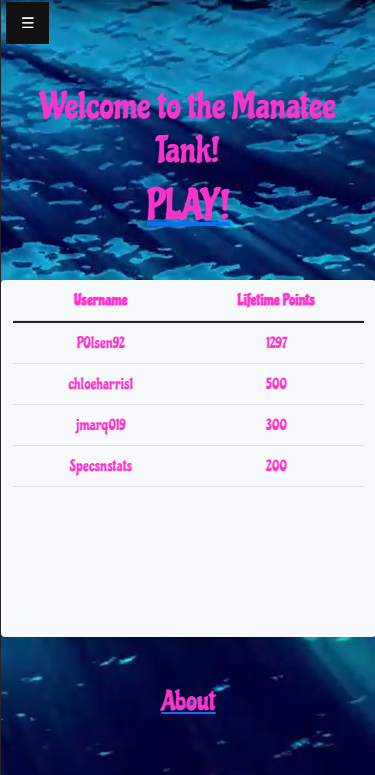
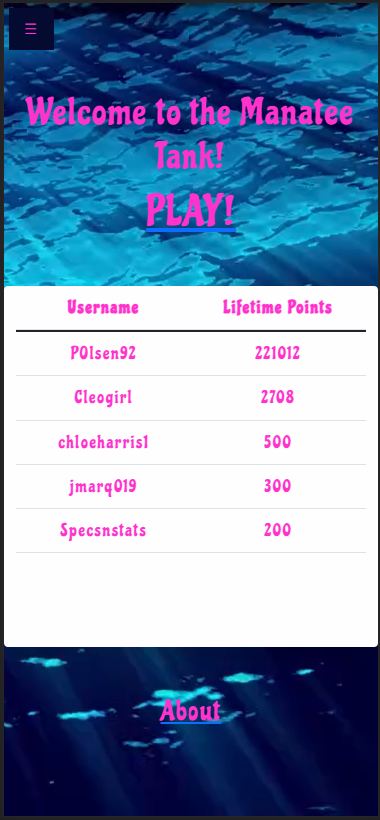
updated screenshots to readme, added letter spacing for better readability

diff --git a/public/css/style.css b/public/css/style.css
@@ -1,14 +1,14 @@
+/* MAIN AND UNIVERSAL */
+
 * {
     font-family: 'Chicle', cursive;
     color: #ff33cc;
+    letter-spacing: 1.5px;
 }
+
 
 body {
     background-color: transparent;
-}
-
-.manatee-button {
-    /* border-color: #FFB6C1; */
 }
 
 #background-video {
@@ -25,8 +25,15 @@ img:active {
     box-shadow: 2px 2px 10px rgba(0, 0, 0, 0.3);
 }
 
+/* ~~~~~~~~~~~~~~~~~~~~~~~~~~~~~~~~~~~~~~~~~~~~~~~~~~~~~~~~~~~~~~~~~~~~~~~~~~~~~~~~~~~ */
+/* DASHBOARD */
+#poh-text {
+    background-color: rgba(73, 73, 73, 0.514);
+    font-size: 20px;
+}
 
-/* The sidebar menu */
+/* ~~~~~~~~~~~~~~~~~~~~~~~~~~~~~~~~~~~~~~~~~~~~~~~~~~~~~~~~~~~~~~~~~~~~~~~~~~~~~~~~~~ */
+/* NAVBAR */
 
 .sidebar {
     height: 100%;
@@ -107,8 +114,8 @@ img:active {
     padding: 20px;
 }
 
-
-/* Settings CSS */
+/* ~~~~~~~~~~~~~~~~~~~~~~~~~~~~~~~~~~~~~~~~~~~~~~~~~~~~~~~~~~~~~~~~~~~~~ */
+/* SETTINGS */
 
 #settings h1 {
     /* margin-top: 15px; */
@@ -135,6 +142,13 @@ img:active {
     font-size: 25px;
 }
 
+/* ~~~~~~~~~~~~~~~~~~~~~~~~~~~~~~~~~~~~~~~~~~~~~~~~~~~~~~~~~~~~~~~~~~~~~~~~~~~~~~~~~~~~~ */
+/* LEADERBOARD */
+
+#ldrbrd {
+    background-color: #fefefe
+}
+
 .table-fixed tbody {
     height: 300px;
     overflow-y: scroll;
@@ -154,11 +168,15 @@ img:active {
 .table-fixed thead>tr>th {
     float: left;
     position: relative;
+    font-size: 18px;
 }
 
 #play {
     color: #ff33cc;
 }
+
+/* ~~~~~~~~~~~~~~~~~~~~~~~~~~~~~~~~~~~~~~~~~~~~~~~~~~~~~~~~~~~~~~~~~~~~~~~~~~~~~~~~~~~~~~~~~~~~~~~~~ */
+/* LOGIN */
 
 #signup-text {
     font-size: 100px;
@@ -169,9 +187,8 @@ img:active {
 }
 
 
+/* ~~~~~~~~~~~~~~~~~~~~~~~~~~~~~~~~~~~~~~~~~~~~~~~~~~~~~~~~~~~~~~~~~~~~~~~~~~~~~~~~~~~~~~~~~ */
 /* MODAL */
-
-
 /* The Modal (background) */
 
 .modal-stuff {
@@ -182,7 +199,7 @@ img:active {
     z-index: 1;
     /* Sit on top */
     left: 0;
-    top: 0;
+    top: -50px;
     width: 100%;
     /* Full width */
     height: 100%;
@@ -191,7 +208,7 @@ img:active {
     /* Enable scroll if needed */
     background-color: rgb(0, 0, 0);
     /* Fallback color */
-    background-color: rgba(0, 0, 0, 0.4);
+    background-color: rgba(0, 0, 0, 0.486);
     /* Black w/ opacity */
 }
 
